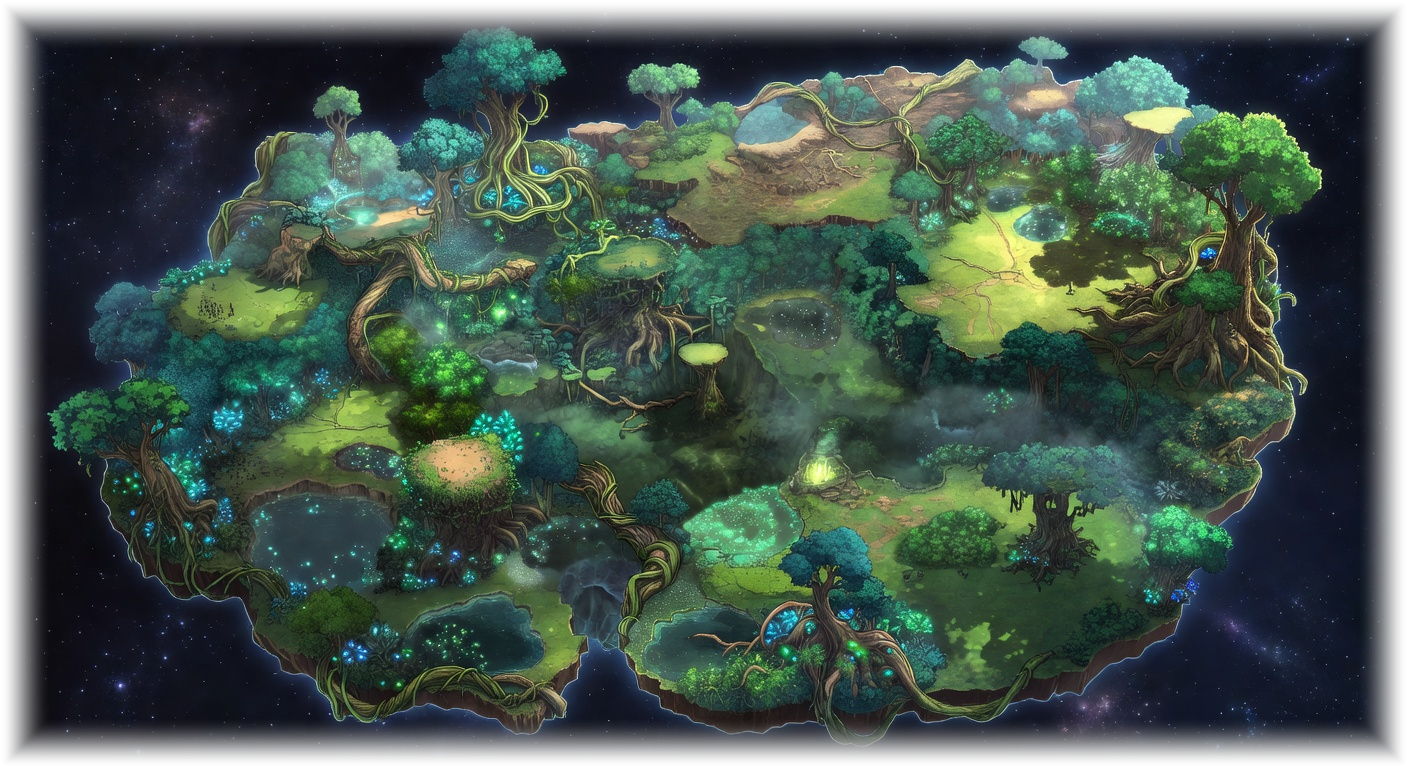
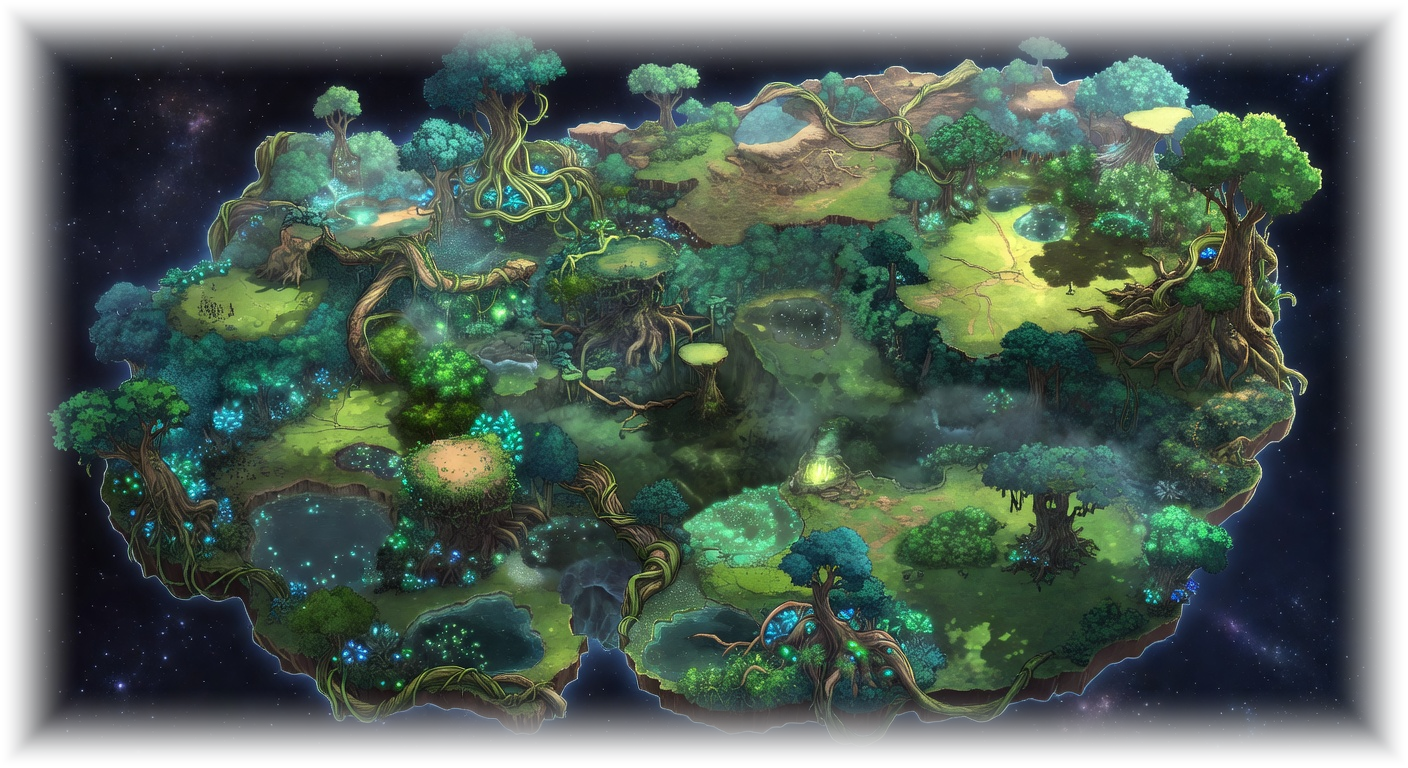
Increase map feather to 80px on all edges, fix object-fit to contain
- 80px smoothstep vignette on all four edges (was 50px)
- Changed object-fit from cover to contain so feathered edges are visible
- Cover was cropping the feathered top/bottom edges

Changed region(s): [[0.0, 0.0, 1.0, 1.0]]

diff --git a/game.html b/game.html
@@ -271,7 +271,7 @@
             inset: 0;
             width: 100%;
             height: 100%;
-            object-fit: cover;
+            object-fit: contain;
             image-rendering: auto;
             pointer-events: none;
         }
